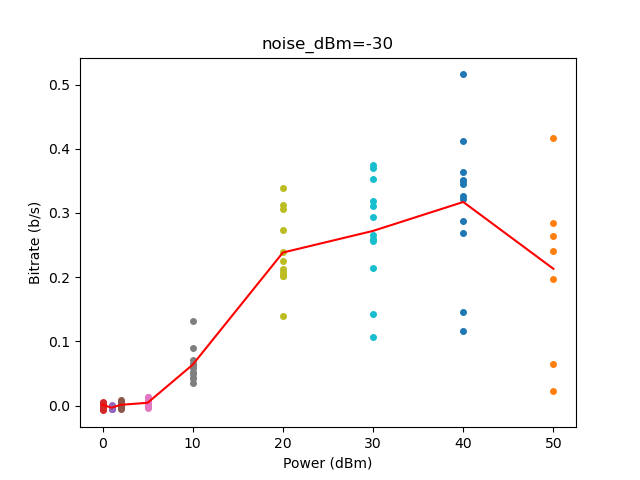
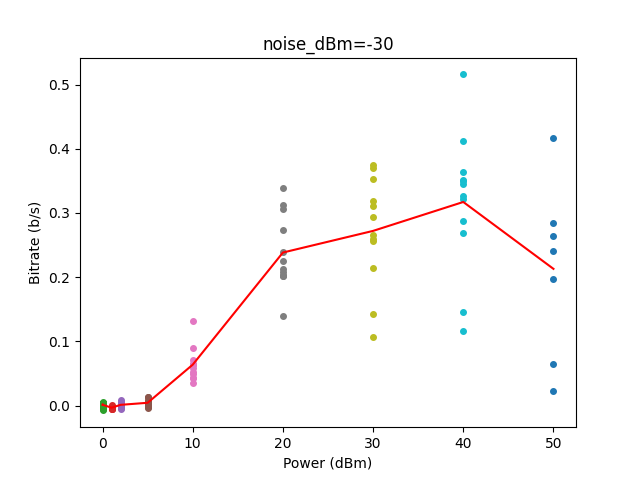
plotting issue solved
the issue is with the syntax

diff --git a/RIS_2023_Sept_23/RIS_Plotting.py b/RIS_2023_Sept_23/RIS_Plotting.py
@@ -5,7 +5,7 @@ import time
 
 if __name__ == "__main__":
 
-    noise_power = 100
+    noise_power = 30
 
     cwd_path = os.path.dirname(os.path.abspath(__file__))
     print(cwd_path)
@@ -20,7 +20,7 @@ if __name__ == "__main__":
     fig, ax = plt.subplots()
     # ax.set_xscale("log", nonpositive='clip')
     for i, lin_p in enumerate(linear_power_list):
-        name = f'{lin_p}dBm.csv'
+        name = f'{lin_p}dBm_RIS_System.csv'
         save_path = os.path.join(folder_path, name)
 
         if not os.path.isfile(save_path):
